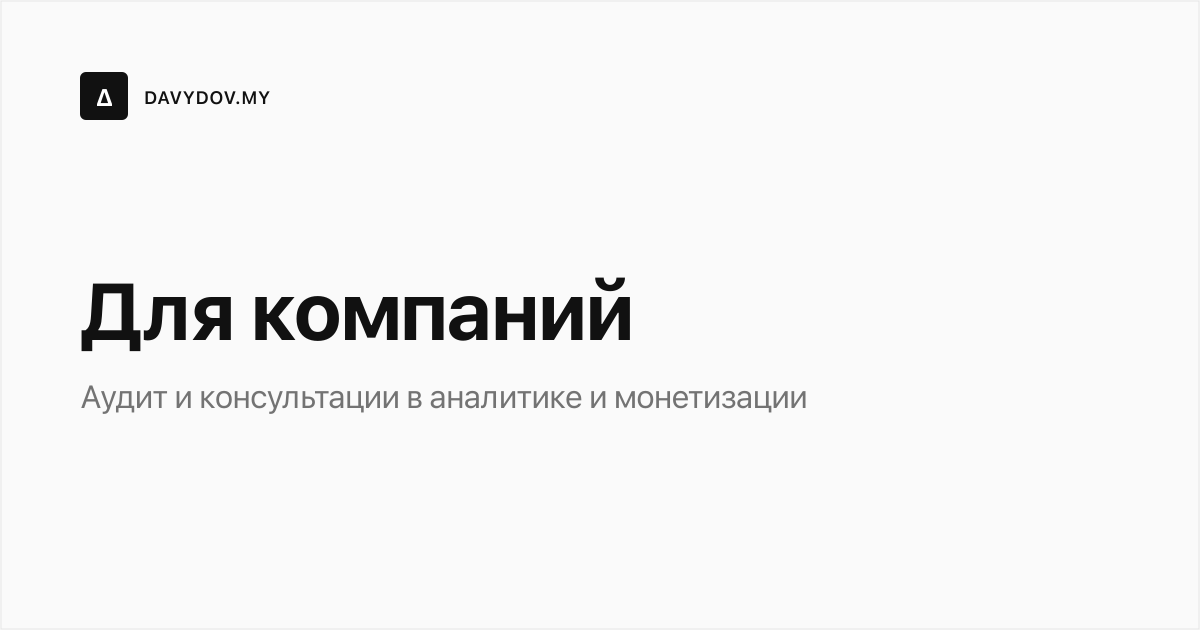
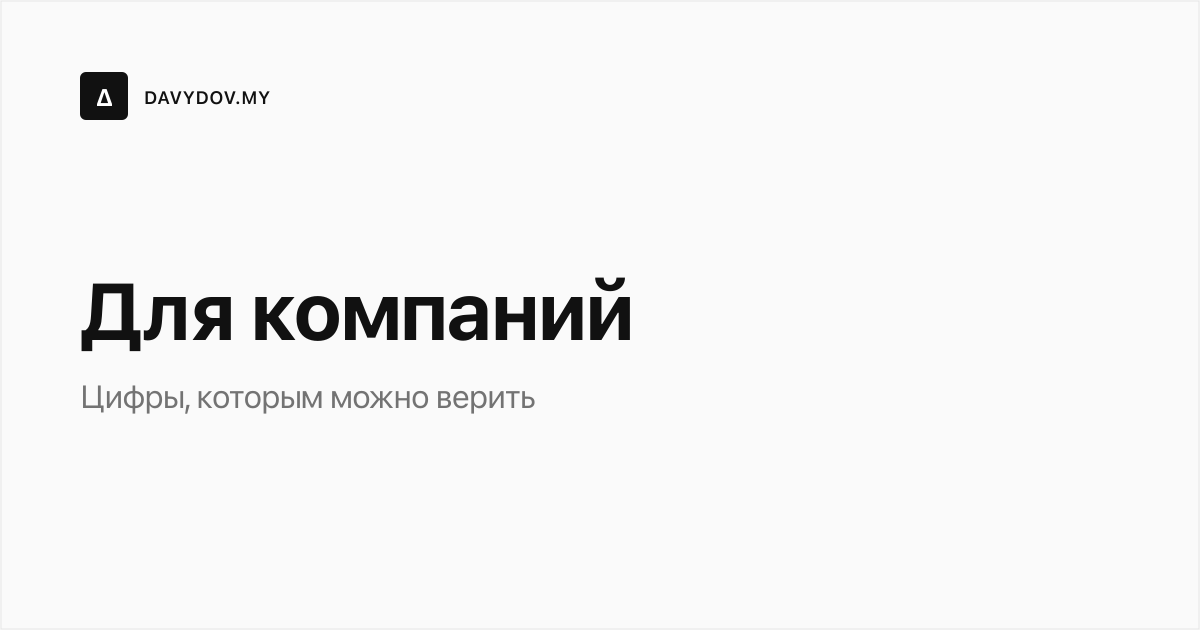
/companies/: рамка AI-first
H1, подводка и description по новому тексту; темы двумя группами,
новые форматы, блок «Разбор задач для AI-first», строка про агента
после вывода, два новых вопроса FAQ, новый ответ про минимальный объём.
Убраны: корпоративное обучение, вопрос про адаптацию курсов, блок
«Самокат» (текст — в _archive/davydov-my/companies-samokat.md).
style.css: .plan ul + h3 — отступ перед второй группой.
OG-картинка: подзаголовок «Цифры, которым можно верить».

Changed region(s): [[0.0617, 0.6032, 0.6783, 0.6635]]

diff --git a/companies/index.html b/companies/index.html
@@ -6,15 +6,16 @@
     <title>Для компаний — Саша Давыдов</title>
     <meta name="author" content="Саша Давыдов"/>
     <link rel="canonical" href="https://davydov.my/companies/"/>
-    <meta name="description" content="Продуктовая и аналитическая диагностика для компаний: метрики, эксперименты, решения — davydov.my."/>
+    <meta name="description" content="Помогаю командам перевести аналитику на AI-first: разобрать бэклог, записать решения, которые живут в головах, и выстроить проверку, чтобы работе агента можно было доверять."/>
     <meta property="og:type" content="website"/>
     <meta property="og:title" content="Для компаний — Саша Давыдов"/>
-    <meta property="og:description" content="Продуктовая и аналитическая диагностика для компаний: метрики, эксперименты, решения."/>
+    <meta property="og:description" content="Помогаю командам перевести аналитику на AI-first: разобрать бэклог, записать решения, которые живут в головах, и выстроить проверку, чтобы работе агента можно было доверять."/>
     <meta property="og:url" content="https://davydov.my/companies/"/>
     <meta property="og:image" content="https://davydov.my/assets/og/companies.png"/>
     <meta property="og:image:width" content="1200"/>
     <meta property="og:image:height" content="630"/>
     <meta name="twitter:card" content="summary_large_image"/>
+    <meta name="twitter:description" content="Помогаю командам перевести аналитику на AI-first: разобрать бэклог, записать решения, которые живут в головах, и выстроить проверку, чтобы работе агента можно было доверять."/>
     <link rel="icon" href="/favicon.svg" type="image/svg+xml"/>
     <link rel="icon" href="/favicon.ico" sizes="any"/>
     <link rel="stylesheet" href="/style.css"/>
@@ -68,46 +69,47 @@
 
 <div class="page">
   <p class="page-sub">Для компаний</p>
-  <h1 class="page-title">Аналитика<br>и решения<span class="accent-dot">.</span></h1>
-  <p class="page-lead">Аналитика продукта, эксперименты, монетизация. Внешняя экспертиза для команд, которые хотят разобраться с данными — а не получить готовый отчёт.</p>
+  <h1 class="page-title">Цифры, которым можно верить<span class="accent-dot">.</span></h1>
+  <p class="page-lead">Помогаю командам перевести аналитику на AI-first: разобрать бэклог, записать решения, которые живут в головах, и выстроить проверку, чтобы работе агента можно было доверять.</p>
 
   <div class="pricing" style="margin-top:48px">
     <div class="plan">
       <div class="plan-tag">Темы</div>
+      <h3>AI-first аналитика</h3>
+      <ul>
+        <li>Разбор задач команды по образу результата</li>
+        <li>Запись решений, без которых агент ошибётся</li>
+        <li>Приёмка работы агента под тип задачи</li>
+      </ul>
+      <h3>Эксперименты и монетизация</h3>
       <ul>
         <li>A/B-система: метрики, guardrails, типовые ошибки</li>
-        <li>Метрики продукта и их связи с решениями</li>
+        <li>Метрики продукта и их связь с решениями</li>
         <li>Монетизация рекламного инвентаря</li>
-        <li>Воркшопы и разборы для команды аналитики</li>
-        <li>Менторство для лидов и senior-аналитиков</li>
       </ul>
     </div>
     <div class="plan feat">
       <div class="plan-tag">Форматы</div>
       <h3>Форматы сотрудничества</h3>
       <ul>
-        <li>Разовая консультация или аудит (2–4 часа)</li>
-        <li>Серия рабочих сессий (2–4 недели)</li>
-        <li>Корпоративное обучение (адаптация курсов под контекст)</li>
-        <li>Долгосрочное менторство (от 1 месяца)</li>
+        <li>Разбор одного типа задач — рабочая сессия, 2–4 часа</li>
+        <li>Разбор всех задач команды — 2–4 недели</li>
+        <li>Сопровождение — фиксированный объём в месяц</li>
+        <li>Воркшоп для команды аналитики</li>
+        <li>Менторство для лидов и senior-аналитиков</li>
       </ul>
     </div>
+  </div>
+
+  <div class="prose prose--section">
+    <h2>Разбор задач для AI-first</h2>
+    <p>Беру задачи команды и раскладываю по <a href="/ai-analyst/slovar/#obraz-rezultata">образу результата</a>: число, выгрузка, правка отчёта, A/B, исследование. По каждому типу прохожу одни вопросы: что приходит на вход, какие решения задача требует, записаны ли они и дойдут ли до агента, чем принимать результат и чего эта проверка не заметит.</p>
+    <p>На выходе — вердикт по каждому типу: отдавать агенту, отдавать с приёмкой или пока не отдавать. И список решений, которые нужно записать, чтобы вердикт поменялся.</p>
   </div>
 
   <div class="prose" style="margin-top:48px">
     <h2>Откуда опыт</h2>
 
-    <h3>Самокат</h3>
-    <p>В Самокате я столкнулся с тем, что аналитиков на рынке не
-    хватает, а команды растут быстрее, чем мы успеваем нанимать.
-    Решение оказалось не в более агрессивном найме, а в стажёрах.
-    За год через мои команды прошли четыре отличных ребят, и
-    большинство остались в штате. Стажёры освободили сеньоров от
-    рутины, дали им практику менторства, а гибкость распределения
-    ресурсов между продуктами заметно выросла. Тут важна была
-    работа с лидом рекрутинга, выбор продуктов под уровень
-    стажёра, и привлечение сеньоров как менторов — без этого
-    стажёр не вырастает в продуктивного аналитика.</p>
 
     <h3>VK / Дзен</h3>
     <p>В рекламной монетизации Дзена самая сложная часть — это не
@@ -219,16 +221,27 @@
 
   <div class="prose prose--section">
     <p>Во всех трёх случаях задача была одна: сделать так, чтобы цифрам можно было верить. Дашборд, построенный поверх неверного определения метрики, вреднее его отсутствия — он выглядит убедительно. Обычно работа начинается с проверки того, что уже посчитано.</p>
+    <p>С агентом то же самое: определение, которое не записано, он примет сам.</p>
   </div>
 
   <div class="cta-strip">
     <h3>Публичные разборы</h3>
-    <p>Открытые данные и интерактивные модели — маркетплейсы, D2C, лотереи, вторичный рынок.</p>
+    <p>Метод по шагам — в серии «<a href="/ai-analyst/">AI-аналитик</a>». Математика там, где её не ждут, — в «<a href="/cases/">Аналитике везде</a>».</p>
     <a href="/cases/" class="btn btn-primary">Смотреть кейсы →</a>
   </div>
 
   <div class="prose" style="margin-top:48px">
     <h2>Частые вопросы</h2>
+
+    <details>
+      <summary>Нужен ли нам уже AI-аналитик?</summary>
+      <p>Нет. Разбор начинается с задач, а не с инструмента: он показывает, что можно отдавать, ещё до выбора агента. Если агент уже есть, начнём с его ошибок.</p>
+    </details>
+
+    <details>
+      <summary>Вы внедряете какой-то продукт?</summary>
+      <p>Нет. Я не продаю инструмент: помогаю решить, что отдавать агенту, и проверить, что получилось.</p>
+    </details>
 
     <details>
       <summary>Работаете ли вы с командами вне России?</summary>
@@ -237,13 +250,9 @@
 
     <details>
       <summary>Какой минимальный объём сотрудничества?</summary>
-      <p>Минимум — разовая консультация на 2 часа. Для аудита или обучения обычно нужно от 2 до 4 недель, в зависимости от масштаба задачи.</p>
+      <p>Минимум — рабочая сессия на 2–4 часа по одному типу задач. Разбор всех задач команды — от 2 до 4 недель.</p>
     </details>
 
-    <details>
-      <summary>Можно ли адаптировать курсы под нашу компанию?</summary>
-      <p>Да. Любой из открытых курсов (A/B-тестирование, аналитика продукта, монетизация) можно адаптировать под внутренний контекст: ваши метрики, инструменты, кейсы.</p>
-    </details>
 
     <p style="margin-top:32px">Написать: <a href="mailto:alex@davydov.my">alex@davydov.my</a> или <a href="https://t.me/Datalake">Telegram</a></p>
   </div>

diff --git a/style.css b/style.css
@@ -773,6 +773,8 @@
 .plan ul li{padding:8px 0;border-top:1px dashed var(--line);display:flex;align-items:center;gap:10px;}
 .plan.feat ul li{border-top-color:#2a2a2a;}
 .plan ul li::before{content:"\2713";color:var(--accent);font-weight:700;}
+/* Две группы в одном .plan (темы на /companies/): отступ перед вторым h3. */
+.plan ul + h3{margin-top:40px;}
 
 /* cases grid */
 .cases-grid{display:grid;grid-template-columns:1fr 1fr;gap:16px;margin-top:48px;}
